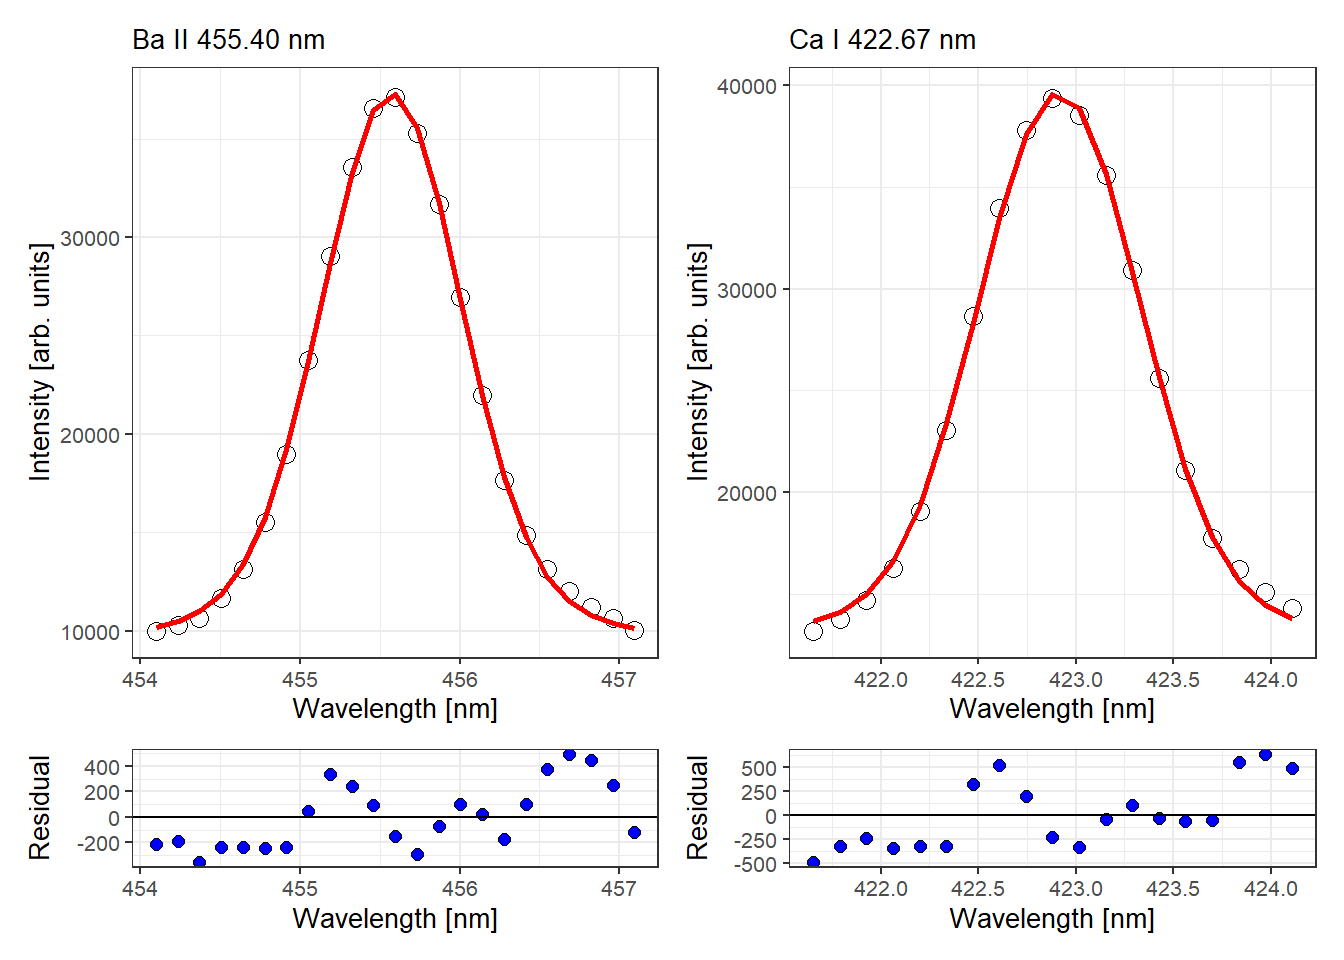
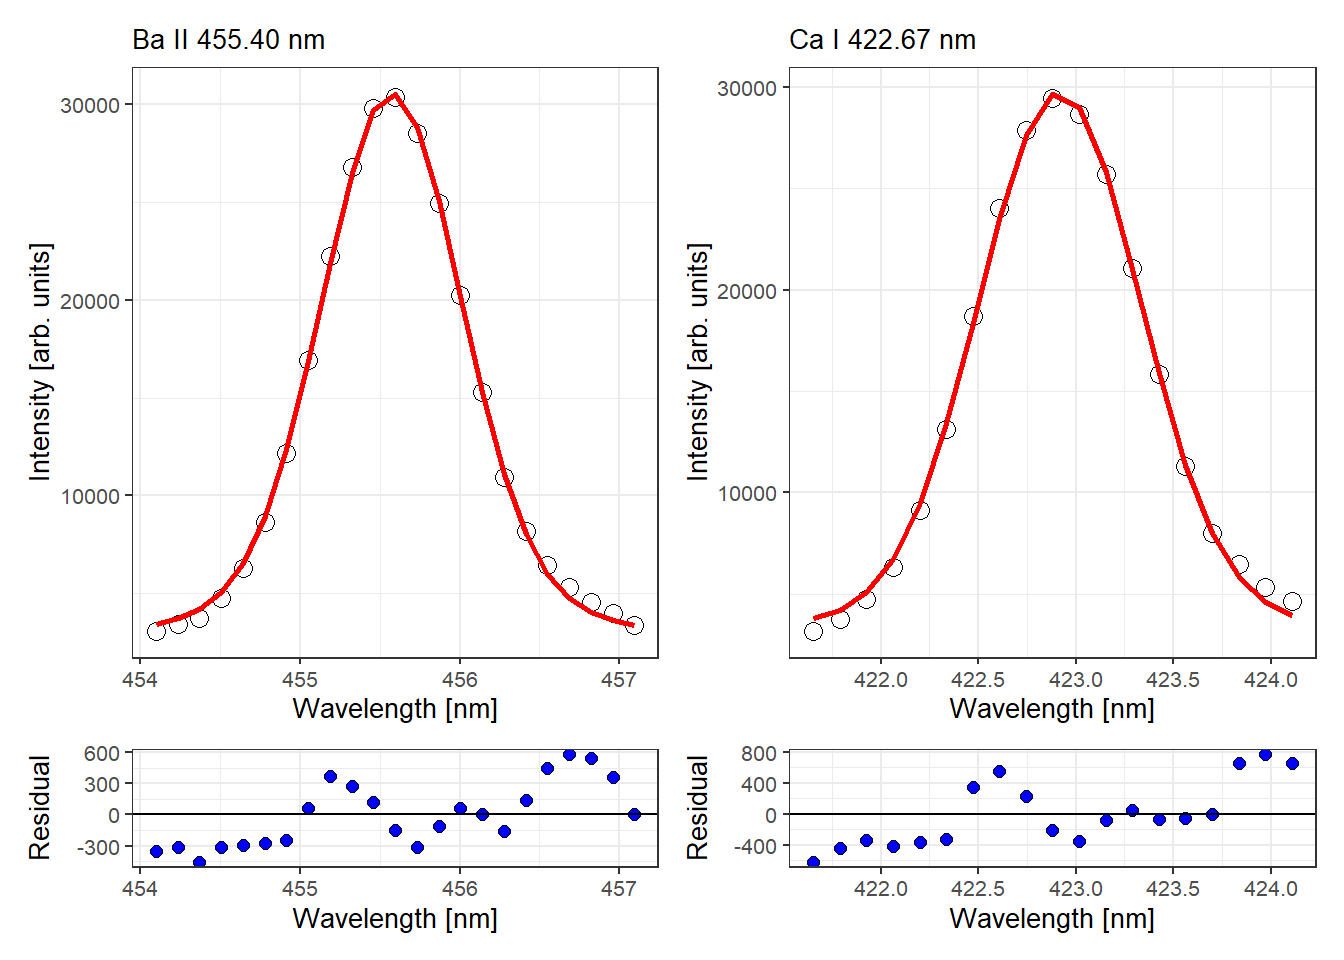
Updates

diff --git a/README.md b/README.md
@@ -128,13 +128,13 @@ our initial guess and are respectively the Gaussian full width at half
 maximum (FWHM) and peak area.
 
 ``` r
-Ba455_fit <- Ca_Mn_spec %>% 
+Ba455_fit <- corrected_spec %>% 
   select(`454.09686`:`457.09573`) %>% 
   peakfit(profile = "Gaussian", wG = 1, A =  15000)
 ```
 
 ``` r
-Ca422_fit <- Ca_Mn_spec %>% 
+Ca422_fit <- corrected_spec %>% 
   select(`421.65463`:`424.10825`) %>% 
   peakfit(profile = "Gaussian", wG = 1, A = 15000)
 ```
@@ -151,16 +151,16 @@ Ba455_fit %>% pluck("augmented")
 #> # A tibble: 23 x 4
 #>        x      y .fitted .resid
 #>    <dbl>  <dbl>   <dbl>  <dbl>
-#>  1  454.  9987.  10357. -370. 
-#>  2  454. 10297.  10533. -236. 
-#>  3  454. 10639.  10931. -292. 
-#>  4  455. 11635.  11745. -111. 
-#>  5  455. 13128.  13239. -111. 
-#>  6  455. 15503.  15685. -182. 
-#>  7  455. 18972.  19242. -270. 
-#>  8  455. 23734.  23784.  -50.0
-#>  9  455. 29026.  28779.  247. 
-#> 10  455. 33550.  33326.  224. 
+#>  1  454.  3086.   3596. -510. 
+#>  2  454.  3408.   3769. -361. 
+#>  3  454.  3763.   4163. -400. 
+#>  4  455.  4771.   4969. -198. 
+#>  5  455.  6277.   6450. -173. 
+#>  6  455.  8665.   8881. -216. 
+#>  7  455. 12146.  12421. -274. 
+#>  8  455. 16921.  16951.  -30.1
+#>  9  455. 22226.  21945.  281. 
+#> 10  455. 26762.  26506.  256. 
 #> # ... with 13 more rows
 ```
 
@@ -172,10 +172,10 @@ Ba455_fit %>% pluck("tidied")
 #> # A tibble: 4 x 5
 #>   term   estimate std.error statistic  p.value
 #>   <chr>     <dbl>     <dbl>     <dbl>    <dbl>
-#> 1 y0    10251.    122.           83.8 7.14e-26
-#> 2 xc      456.      0.00286  159126.  3.73e-88
-#> 3 wG        0.886   0.00802     110.  3.80e-28
-#> 4 A     29964.    332.           90.1 1.79e-26
+#> 1 y0     3492.    145.           24.0 1.10e-15
+#> 2 xc      456.      0.00340  133961.  9.83e-87
+#> 3 wG        0.886   0.00953      93.0 9.97e-27
+#> 4 A     29953.    395.           75.9 4.68e-25
 ```
 
 Thus we can plot the obtained results, since a picture is worth a
@@ -189,13 +189,13 @@ In this case, the `wL` estimate provides the width of the spectral lines
 while the `wG` estimate provides the instrumental broadening.
 
 ``` r
-Ba455_fit2 <- Ca_Mn_spec %>% 
+Ba455_fit2 <- corrected_spec %>% 
   select(`454.09686`:`457.09573`) %>% 
   peakfit(profile = "Voigt", wL = 0.1, wG = 0.9, A =  15000)
 ```
 
 ``` r
-Ca422_fit2 <- Ca_Mn_spec %>% 
+Ca422_fit2 <- corrected_spec %>% 
   select(`421.65463`:`424.10825`) %>% 
   peakfit(profile = "Voigt", wL = 0.1, wG = 0.9, A = 15000)
 ```
@@ -209,11 +209,11 @@ Ba455_fit2 %>% pluck("tidied")
 #> # A tibble: 5 x 5
 #>   term   estimate  std.error statistic  p.value
 #>   <chr>     <dbl>      <dbl>     <dbl>    <dbl>
-#> 1 y0     9441.     511.          18.5  3.72e-13
-#> 2 xc      456.       0.00274 166555.   3.78e-84
-#> 3 wL        0.107    0.0631       1.70 1.05e- 1
-#> 4 wG        0.398    0.0279      14.3  2.94e-11
-#> 5 A     34103.    2614.          13.0  1.30e-10
+#> 1 y0     2718.     624.           4.36 3.79e- 4
+#> 2 xc      456.       0.00334 136491.   1.36e-82
+#> 3 wL        0.103    0.0773       1.33 2.00e- 1
+#> 4 wG        0.400    0.0340      11.8  7.07e-10
+#> 5 A     33906.    3187.          10.6  3.41e- 9
 ```
 
 <img src="man/figures/README-unnamed-chunk-26-1.png" width="90%" height="90%" />
